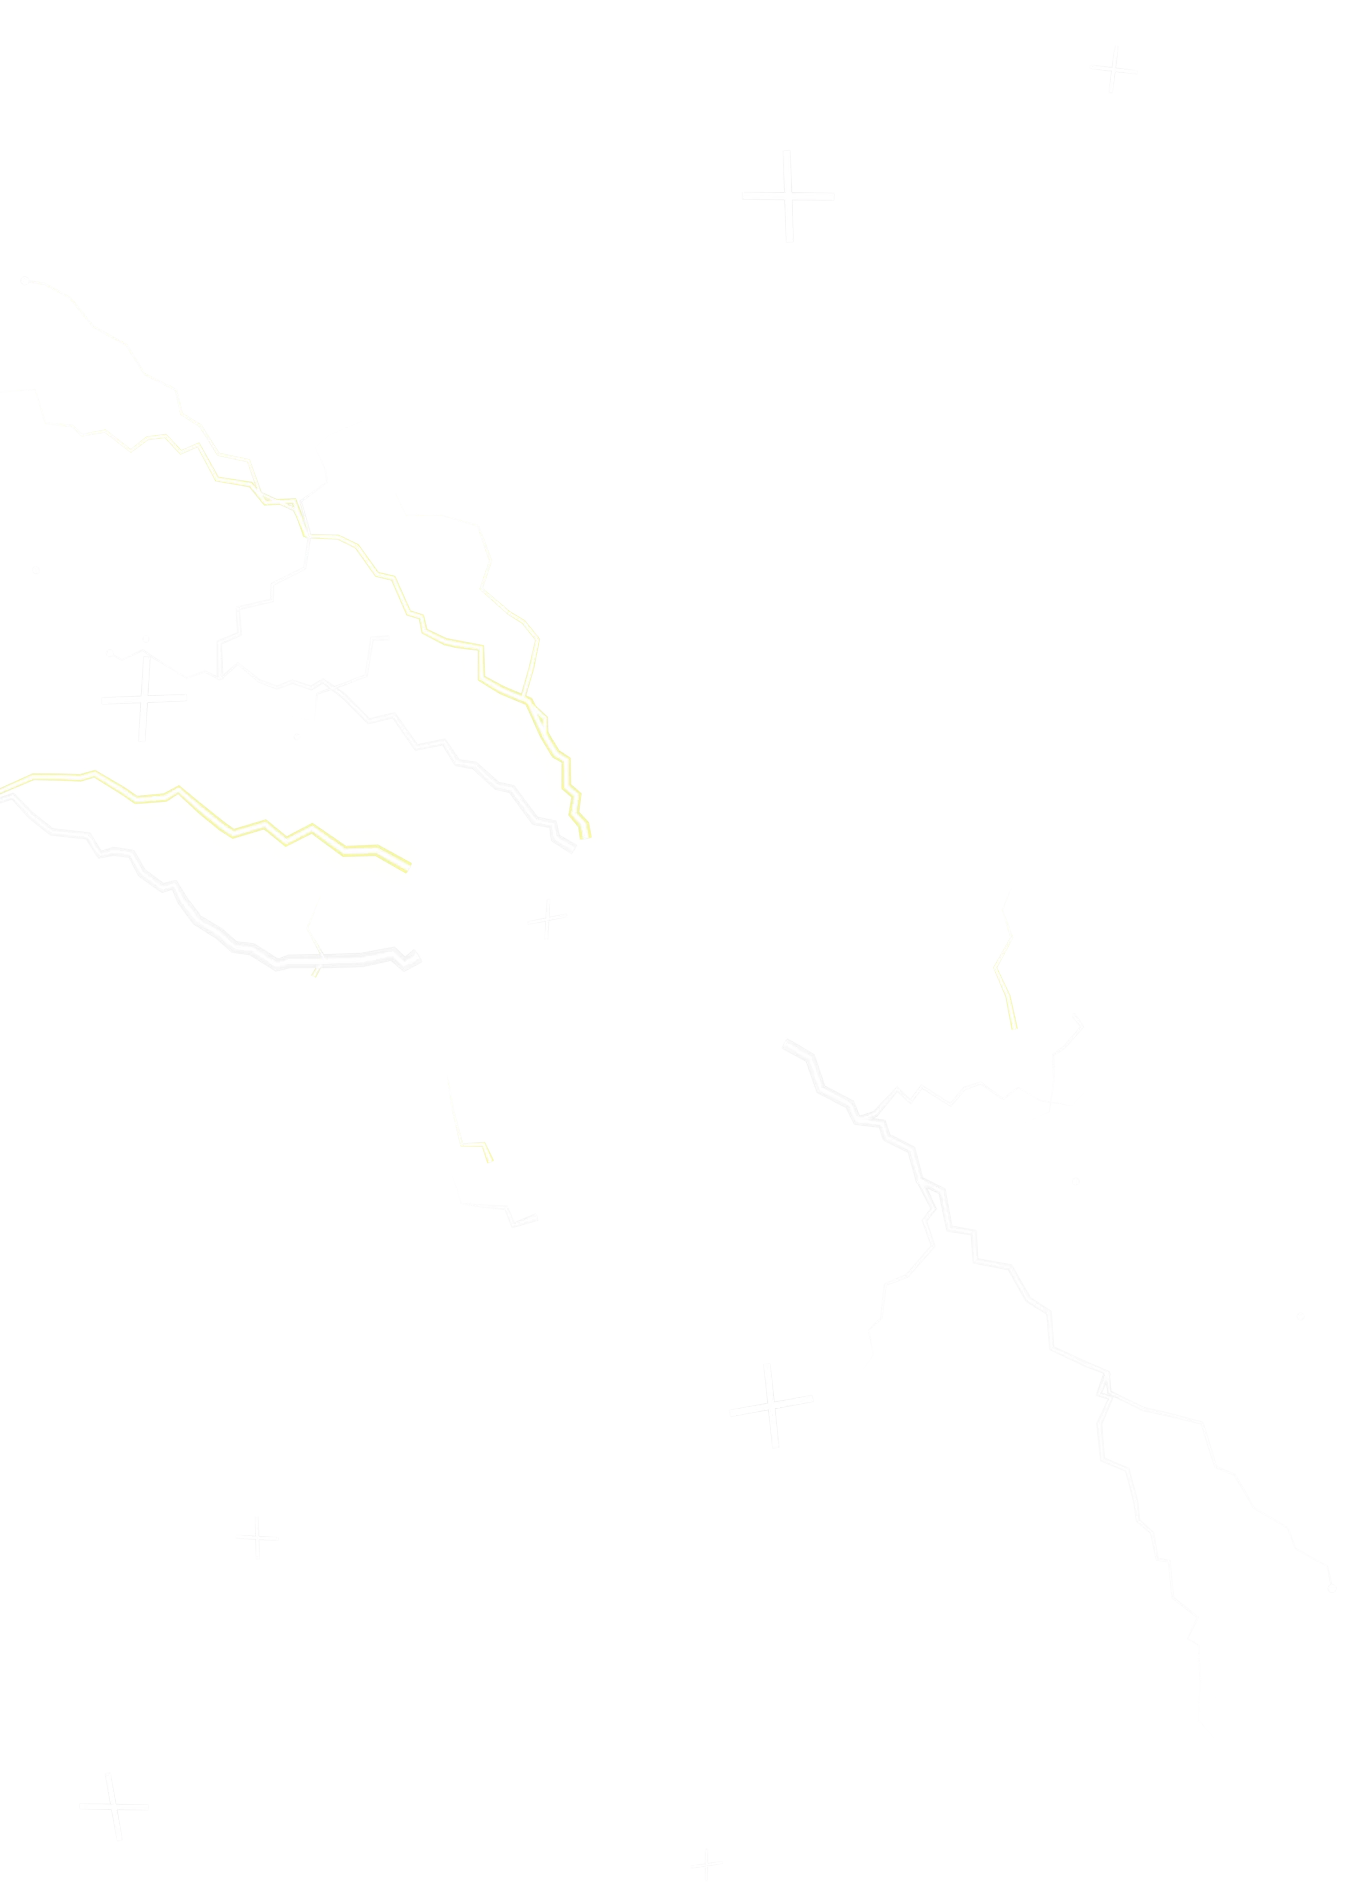
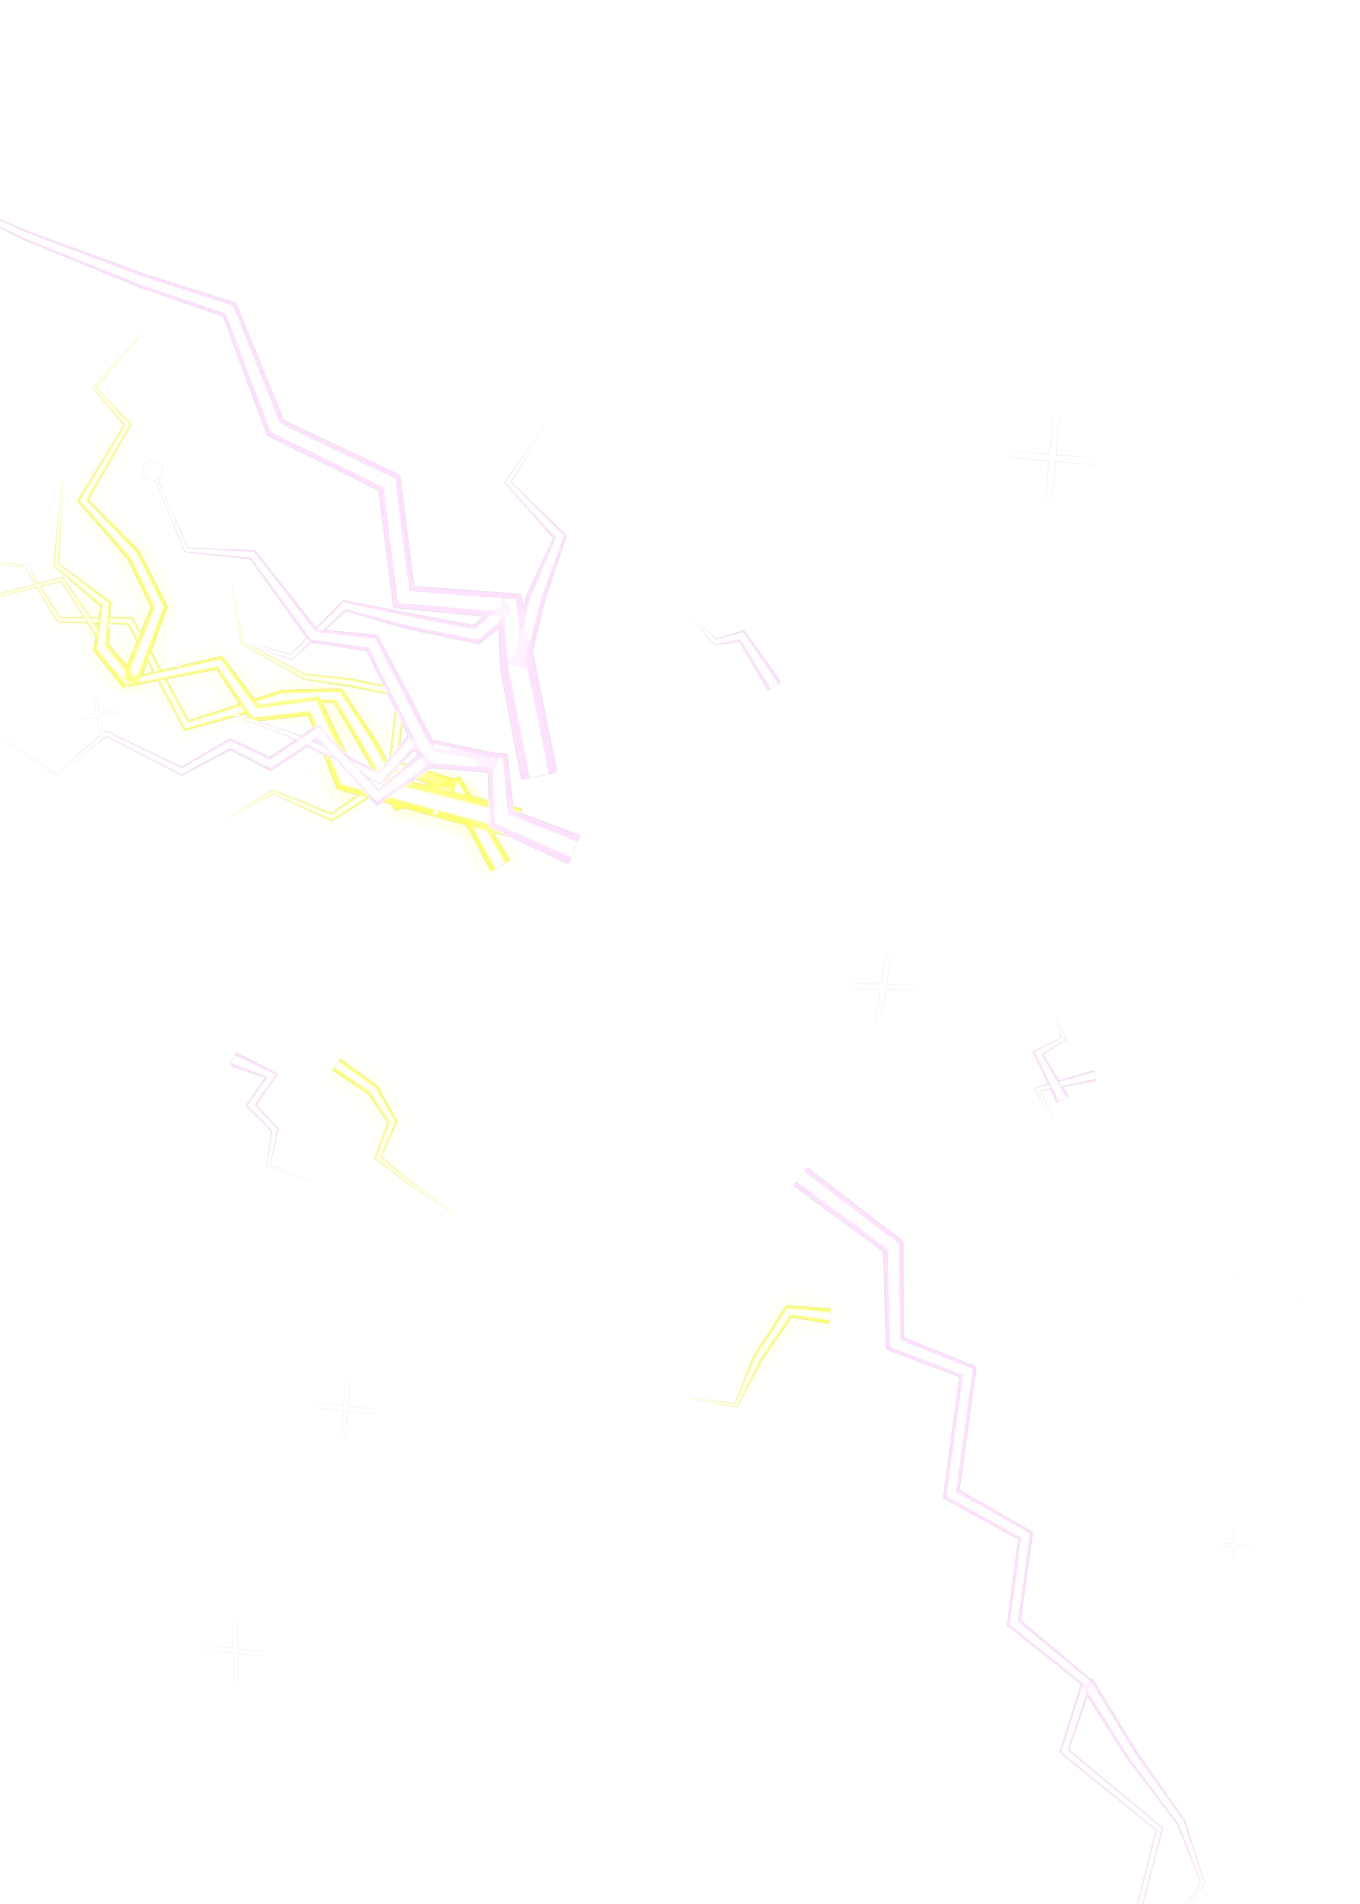
feat(holo): chunky cartoon bolts and a stroke weight for effects
- lightning: longer zig-zag steps and wider angles give the angular bolts of
  the card art; thicker core and a nearly solid coloured halo that tapers to
  a point, bigger sparks, fewer branches
- `--fx-weight` scales the stroke width of bolts, arcs and energy rings
- electric card re-rendered with the new bolts

Claude-Session: https://claude.ai/code/session_01X2xAsW2s6XkYPCSyBgQiF6

diff --git a/tools/blender/render_card.py b/tools/blender/render_card.py
@@ -128,6 +128,7 @@ def parse_args(argv: list[str]) -> argparse.Namespace:
     parser.add_argument("--bg-image", help="photo for the backdrop (already blurred/darkened by the wrapper) instead of the procedural gradient")
     parser.add_argument("--fx-angle", type=float, help="direction the effects shoot along, in degrees (default: random per seed)")
     parser.add_argument("--fx-spread", type=float, default=28.0, help="half-angle of the effects cone in degrees")
+    parser.add_argument("--fx-weight", type=float, default=1.0, help="stroke weight of bolts, arcs and rings (1 = default, 2 = twice as thick)")
     parser.add_argument("--palette", default="psychic", help="palette name or `all`")
     parser.add_argument("--variants", type=int, default=1, help="how many variants to render")
     parser.add_argument("--seed", type=int, default=7)
@@ -755,18 +756,22 @@ def tube_from_points(name: str, points: list[tuple[float, float, float]], radii:
     return obj
 
 
-def bolt_points(rng: random.Random, start: tuple[float, float], heading: float, length: float, z: float, jitter: float = 0.7) -> list[tuple[float, float, float]]:
-    """Zig-zag around a slowly drifting heading: the jagged line of a lightning bolt."""
+def bolt_points(rng: random.Random, start: tuple[float, float], heading: float, length: float, z: float, jitter: float = 0.8, step_range: tuple[float, float] = (0.05, 0.13)) -> list[tuple[float, float, float]]:
+    """Zig-zag around a slowly drifting heading: the jagged line of a lightning bolt.
+
+    Long steps and wide angles give the chunky, angular bolts of the card art
+    rather than the fine crackle of a photo; `step_range` scales them.
+    """
     points = [(start[0], start[1], z)]
     x, y = start
     travelled = 0.0
     side = rng.choice((-1.0, 1.0))
     while travelled < length:
-        step = rng.uniform(0.012, 0.04)
-        if rng.random() < 0.75:
+        step = rng.uniform(*step_range)
+        if rng.random() < 0.8:
             side = -side
-        heading += rng.uniform(-0.12, 0.12)
-        angle = heading + side * rng.uniform(0.2, jitter)
+        heading += rng.uniform(-0.1, 0.1)
+        angle = heading + side * rng.uniform(0.35, jitter)
         x += math.cos(angle) * step
         y += math.sin(angle) * step
         travelled += step
@@ -775,11 +780,11 @@ def bolt_points(rng: random.Random, start: tuple[float, float], heading: float, 
 
 
 def build_bolt(name: str, rng: random.Random, points: list[tuple[float, float, float]], width: float, core: bpy.types.Material, halo: bpy.types.Material, fx: bpy.types.Collection) -> None:
-    """White-hot core plus a wider translucent halo along the same path, tapering to the tip."""
+    """White-hot core inside a wider coloured halo along the same path, both tapering to a point at the tip."""
     count = len(points)
-    radii = [max(0.15, 1.0 - index / max(count - 1, 1)) for index in range(count)]
+    radii = [max(0.08, 1.0 - (index / max(count - 1, 1)) ** 1.4) for index in range(count)]
     tube_from_points(f"{name}.core", points, radii, width, core, fx)
-    tube_from_points(f"{name}.halo", points, radii, width * 2.6, halo, fx)
+    tube_from_points(f"{name}.halo", points, radii, width * 2.0, halo, fx)
 
 
 def build_lightning(args: argparse.Namespace, palette: dict, rng: random.Random, fx: bpy.types.Collection) -> None:
@@ -790,8 +795,10 @@ def build_lightning(args: argparse.Namespace, palette: dict, rng: random.Random,
     spread = math.radians(args.fx_spread)
     colors = [color for color in palette.get("beams", palette["shards"]) if color.lower() != "#ffffff"] or palette["shards"]
     core = emission_material("HoloBoltCore", "#ffffff", 14.0)
-    # the halo carries the colour (violet for Zapdos); the core stays white-hot
-    halos = [glow_material(f"HoloBoltHalo{i}", color, 3.0, 0.5) for i, color in enumerate(colors)]
+    # the halo carries the colour (violet for Zapdos) and is nearly solid, so the
+    # bolt reads as a drawn shape; the core stays white-hot
+    halos = [glow_material(f"HoloBoltHalo{i}", color, 1.6, 0.9) for i, color in enumerate(colors)]
+    weight = args.fx_weight
     spark_material = emission_material("HoloSpark", palette["sparkle"], 16.0)
 
     bolt_count = max(args.shards // 4, 4)
@@ -803,18 +810,18 @@ def build_lightning(args: argparse.Namespace, palette: dict, rng: random.Random,
         z = rng.uniform(0.6, 1.1)
         points = bolt_points(rng, start, heading, rng.uniform(0.45, 0.95) * reach, z)
         halo = halos[index % len(halos)]
-        width = rng.uniform(0.002, 0.0034)
+        width = rng.uniform(0.0055, 0.0095) * weight
         build_bolt(f"HoloBolt.{index:03d}", rng, points, width, core, halo, fx)
         # branches split off part-way and wander off at an angle
-        for branch in range(rng.randint(1, 3)):
-            at = rng.randint(2, max(2, len(points) - 3))
+        for branch in range(rng.randint(1, 2)):
+            at = rng.randint(1, max(1, len(points) - 3))
             bx, by, bz = points[at]
             side = rng.choice((-1.0, 1.0))
-            branch_points = bolt_points(rng, (bx, by), heading + side * rng.uniform(0.5, 1.1), rng.uniform(0.15, 0.4) * reach, bz, jitter=0.9)
+            branch_points = bolt_points(rng, (bx, by), heading + side * rng.uniform(0.5, 1.1), rng.uniform(0.15, 0.4) * reach, bz, step_range=(0.04, 0.09))
             build_bolt(f"HoloBolt.{index:03d}.{branch}", rng, branch_points, width * 0.6, core, halo, fx)
         # a spark where the bolt ends
         tx, ty, tz = points[-1]
-        bpy.ops.mesh.primitive_ico_sphere_add(subdivisions=1, radius=rng.uniform(0.004, 0.008), location=(tx, ty, tz))
+        bpy.ops.mesh.primitive_ico_sphere_add(subdivisions=2, radius=rng.uniform(0.008, 0.014) * weight, location=(tx, ty, tz))
         spark = bpy.context.active_object
         spark.name = f"HoloSpark.{index:03d}"
         spark.data.materials.append(spark_material)
@@ -826,8 +833,8 @@ def build_lightning(args: argparse.Namespace, palette: dict, rng: random.Random,
         radius = rng.uniform(0.28, 0.46)
         start = (math.cos(angle) * radius, math.sin(angle) * radius)
         heading = angle + math.pi / 2.0 * rng.choice((-1.0, 1.0))
-        points = bolt_points(rng, start, heading, rng.uniform(0.08, 0.2), rng.uniform(0.5, 1.0), jitter=0.9)
-        build_bolt(f"HoloArc.{index:03d}", rng, points, rng.uniform(0.0008, 0.0016), core, rng.choice(halos), fx)
+        points = bolt_points(rng, start, heading, rng.uniform(0.08, 0.2), rng.uniform(0.5, 1.0), jitter=1.0, step_range=(0.025, 0.06))
+        build_bolt(f"HoloArc.{index:03d}", rng, points, rng.uniform(0.0025, 0.004) * weight, core, rng.choice(halos), fx)
 
     # loose sparks drifting along the direction
     for index in range(args.shards):
@@ -869,7 +876,7 @@ def build_energy(args: argparse.Namespace, palette: dict, rng: random.Random, fx
             ex, ey = math.cos(theta) * rx, math.sin(theta) * ry
             points.append((ex * math.cos(tilt) - ey * math.sin(tilt), ex * math.sin(tilt) + ey * math.cos(tilt), z + rng.uniform(-0.004, 0.004)))
             radii.append(0.35 + 0.65 * math.sin(t * math.pi))
-        width = rng.uniform(0.004, 0.007)
+        width = rng.uniform(0.004, 0.007) * args.fx_weight
         tube_from_points(f"HoloRing.{index:02d}.core", points, radii, width, cores[index % len(cores)], fx)
         tube_from_points(f"HoloRing.{index:02d}.halo", points, radii, width * 3.0, halos[index % len(halos)], fx)
         # dust riding on the ring

diff --git a/AGENTS.md b/AGENTS.md
@@ -299,7 +299,7 @@ Trading-card foil (Pokémon-TCG-Pocket style) for a single image, as the `holo_i
 
 ### Holo card assets from Blender
 
-`pnpm holo:render --name x --model x.glb --palette all --publish` → `tools/blender/render_card.py` (bpy, headless, Blender 4.2 – 5.x) renders photo, cut-out, effects and depth from one camera, `render-card.mjs` crops to the card with `sharp`, writes WebPs + manifest and can copy them to `public/images/holo/<variant>/`. `--fx shards` (Mew), `burst` (Scherox wedges, crystals, beams, radial rays), `lightning` (Zapdos: branching bolt tubes with halo, arcs, sparks) or `energy` (Mewtwo: open orbit rings, dust, orbs), all directed along `--fx-angle` within `--fx-spread`; palettes incl. `scherox`. The wrapper adds a bloom pass (`--no-glow` to skip). Subject: `--model` (glTF/FBX/OBJ), `--image` (cut-out photo on a plane, alpha also shapes the depth map) or the gem placeholder; `--subject-overflow` renders it uncropped on the overhang frame and bigger than the card (pair with `foregroundFrame: "overhang"`). Backdrop: palette gradient, or `--bg-image` (the wrapper blurs and dims it with `sharp`; `--bg-blur` / `--bg-brightness` / `--bg-tint` for one-colour ex cards). `tools/blender/cutout.py` cuts a subject out of a photo (rembg) and writes a depth map (Depth Anything V2, ONNX) for `--image` / `--image-depth`, which gives the cut-out per-pixel relief in the depth pass. Demo cards use a blurred copy of the cut-out's own photo, not the procedural streaks. Own scenes work with collections `bg` / `subject` / `fx`. Layers are isolated with `hide_render`, depth by swapping materials per pass, no compositor (its API moved in 5.0). Overscan must match `OVERSCAN`. See `tools/blender/README.md`.
+`pnpm holo:render --name x --model x.glb --palette all --publish` → `tools/blender/render_card.py` (bpy, headless, Blender 4.2 – 5.x) renders photo, cut-out, effects and depth from one camera, `render-card.mjs` crops to the card with `sharp`, writes WebPs + manifest and can copy them to `public/images/holo/<variant>/`. `--fx shards` (Mew), `burst` (Scherox wedges, crystals, beams, radial rays), `lightning` (Zapdos: chunky angular bolt tubes with a coloured halo, arcs, sparks) or `energy` (Mewtwo: open orbit rings, dust, orbs), all directed along `--fx-angle` within `--fx-spread`, stroke width via `--fx-weight`; palettes incl. `scherox`. The wrapper adds a bloom pass (`--no-glow` to skip). Subject: `--model` (glTF/FBX/OBJ), `--image` (cut-out photo on a plane, alpha also shapes the depth map) or the gem placeholder; `--subject-overflow` renders it uncropped on the overhang frame and bigger than the card (pair with `foregroundFrame: "overhang"`). Backdrop: palette gradient, or `--bg-image` (the wrapper blurs and dims it with `sharp`; `--bg-blur` / `--bg-brightness` / `--bg-tint` for one-colour ex cards). `tools/blender/cutout.py` cuts a subject out of a photo (rembg) and writes a depth map (Depth Anything V2, ONNX) for `--image` / `--image-depth`, which gives the cut-out per-pixel relief in the depth pass. Demo cards use a blurred copy of the cut-out's own photo, not the procedural streaks. Own scenes work with collections `bg` / `subject` / `fx`. Layers are isolated with `hide_render`, depth by swapping materials per pass, no compositor (its API moved in 5.0). Overscan must match `OVERSCAN`. See `tools/blender/README.md`.
 
 ## Device frames
 

diff --git a/tools/blender/README.md b/tools/blender/README.md
@@ -101,7 +101,8 @@ radial rays, like Mega-Scherox (pair with the `scherox` palette); `lightning`
 grows branching bolts out of the subject (random walks pulled toward the
 motion direction, white-hot core tube plus a translucent halo tube, sparks at
 the tips), short arcs crawling around the silhouette and drifting sparks, like
-Zapdos ex (pair with `electric`); `energy` draws three glowing orbit rings as
+Zapdos ex (pair with `electric`; the bolts are drawn chunky and angular like
+the card art, `--fx-weight 1.5` makes every stroke thicker); `energy` draws three glowing orbit rings as
 open arcs (the far side is left out, so they read as passing behind the
 subject), dust riding on them and glass orbs, like Mewtwo ex (pair with
 `psychic`). Bolts and rings are bevelled poly curves with per-point radius, so
